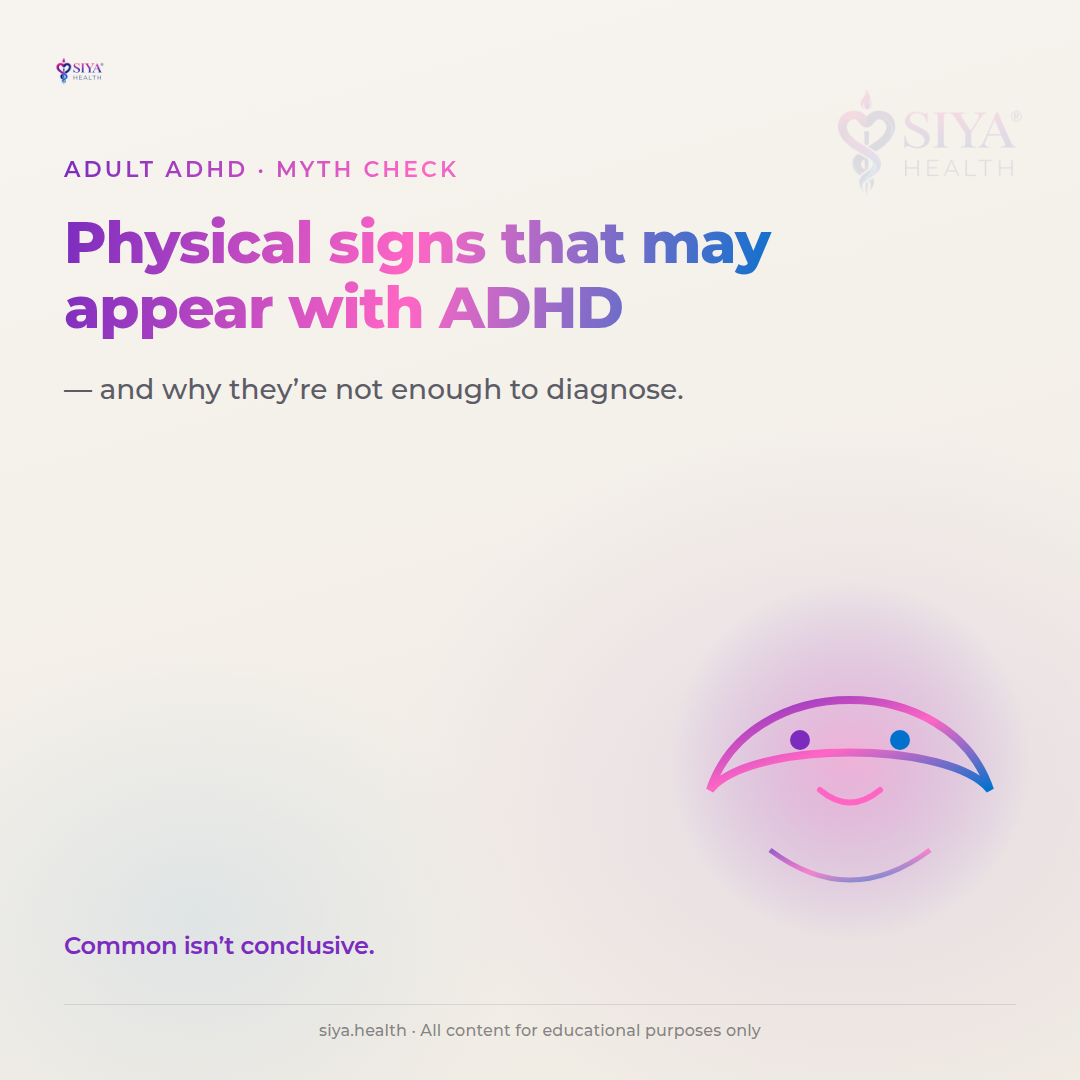
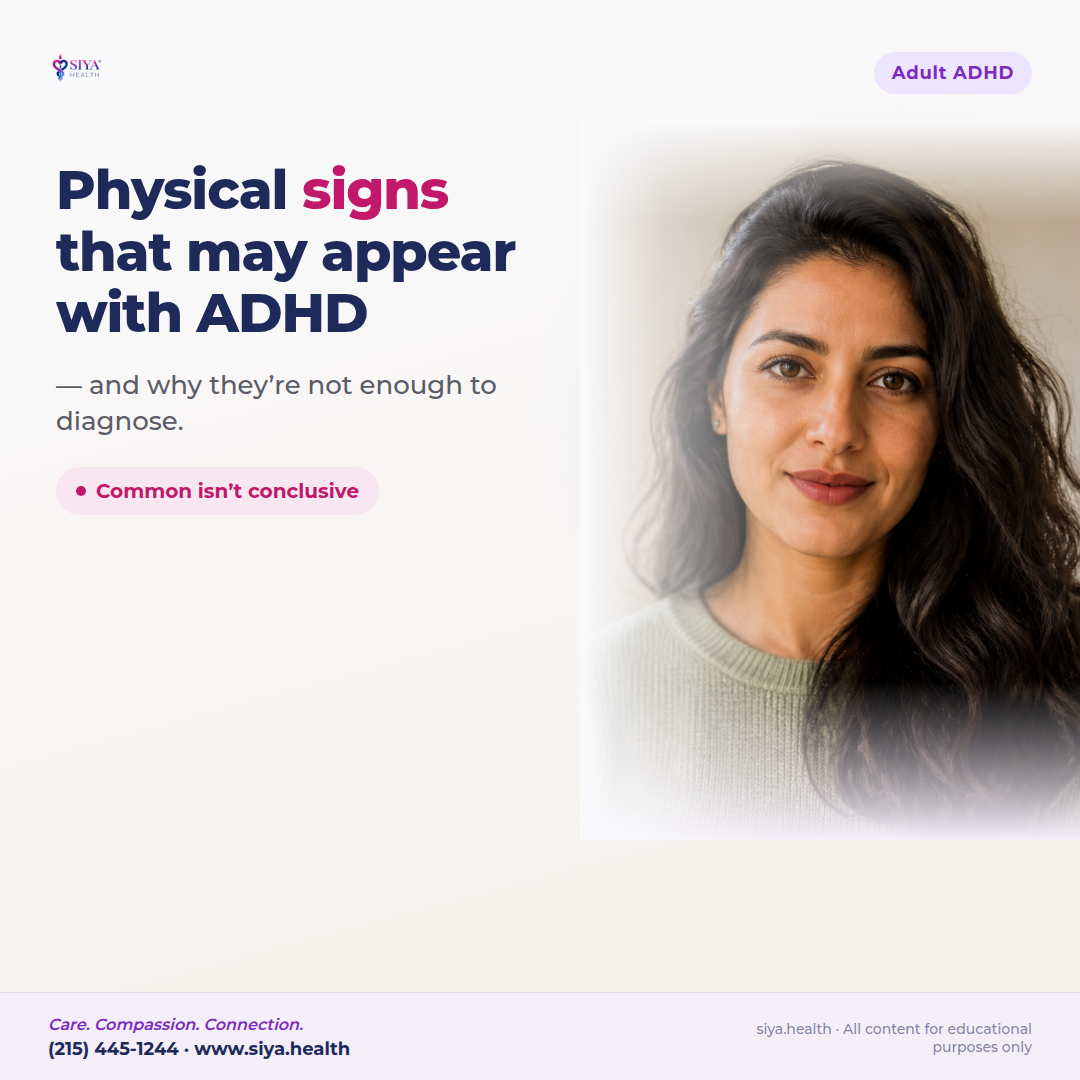
Regen AD-P-01 cover to Template A guidelines
Navy/magenta human-first cover: lifestyle portrait, category pill,
contact footer, no watermark — aligned to SIYA-SOCIAL-POST-STYLE.

diff --git a/apps/siya-health/brand/editorial-packs/AD-P-01/design/slide-01.html b/apps/siya-health/brand/editorial-packs/AD-P-01/design/slide-01.html
@@ -1,36 +1,181 @@
 <!DOCTYPE html>
 <html lang="en"><head>
 <meta charset="utf-8" />
-<title>AD-P-01 slide 01</title>
+<title>AD-P-01 slide 01 — Template A</title>
 <link rel="preconnect" href="https://fonts.googleapis.com" />
 <link rel="preconnect" href="https://fonts.gstatic.com" crossorigin />
 <link href="https://fonts.googleapis.com/css2?family=Montserrat:wght@500;600;700;800&display=swap" rel="stylesheet" />
-<link rel="stylesheet" href="theme.css" />
-</head><body style="margin:0;background:#F7F4EF;">
+<style>
+  :root {
+    --navy: #1E2A5A;
+    --magenta: #C2186B;
+    --plum: #7B2CBF;
+    --lavender: #EDE4FF;
+    --cream: #FAFAFC;
+    --cream2: #F5F1EB;
+    --muted: #5C5C66;
+    --footer-bg: #F3EEF8;
+  }
+  * { box-sizing: border-box; margin: 0; padding: 0; }
+  body { margin: 0; background: #FAFAFC; font-family: "Montserrat", system-ui, sans-serif; }
+  .slide {
+    width: 1080px;
+    height: 1080px;
+    position: relative;
+    overflow: hidden;
+    background:
+      radial-gradient(ellipse 50% 45% at 82% 38%, rgba(205,184,255,0.35), transparent 65%),
+      linear-gradient(165deg, var(--cream) 0%, var(--cream2) 100%);
+    color: var(--navy);
+  }
+  .logo {
+    position: absolute;
+    top: 40px;
+    left: 48px;
+    height: 58px;
+    width: auto;
+    z-index: 6;
+  }
+  .pill {
+    position: absolute;
+    top: 52px;
+    right: 48px;
+    z-index: 6;
+    padding: 10px 18px;
+    border-radius: 999px;
+    background: var(--lavender);
+    color: var(--plum);
+    font-size: 18px;
+    font-weight: 700;
+    letter-spacing: 0.04em;
+  }
+  .content {
+    position: absolute;
+    left: 56px;
+    top: 160px;
+    width: 520px;
+    z-index: 5;
+  }
+  h1 {
+    font-size: 54px;
+    font-weight: 800;
+    line-height: 1.14;
+    letter-spacing: -0.02em;
+    color: var(--navy);
+    margin-bottom: 22px;
+  }
+  h1 .hi { color: var(--magenta); }
+  .support {
+    font-size: 26px;
+    font-weight: 500;
+    line-height: 1.4;
+    color: var(--muted);
+    max-width: 480px;
+    margin-bottom: 28px;
+  }
+  .feeling {
+    display: inline-flex;
+    align-items: center;
+    gap: 10px;
+    padding: 12px 20px;
+    border-radius: 999px;
+    background: #F8E7F0;
+    color: var(--magenta);
+    font-size: 20px;
+    font-weight: 700;
+  }
+  .feeling::before {
+    content: "";
+    width: 10px;
+    height: 10px;
+    border-radius: 50%;
+    background: var(--magenta);
+  }
+  .photo-wrap {
+    position: absolute;
+    right: 0;
+    top: 120px;
+    width: 500px;
+    height: 720px;
+    z-index: 2;
+    overflow: hidden;
+  }
+  .photo-wrap img {
+    width: 100%;
+    height: 100%;
+    object-fit: cover;
+    object-position: center top;
+  }
+  .photo-fade {
+    position: absolute;
+    inset: 0;
+    background:
+      linear-gradient(90deg, var(--cream) 0%, rgba(250,250,252,0.55) 22%, transparent 48%),
+      linear-gradient(180deg, var(--cream) 0%, transparent 14%),
+      linear-gradient(0deg, var(--footer-bg) 0%, transparent 22%);
+    z-index: 3;
+    pointer-events: none;
+  }
+  .footer-bar {
+    position: absolute;
+    left: 0;
+    right: 0;
+    bottom: 0;
+    z-index: 8;
+    background: var(--footer-bg);
+    border-top: 1px solid rgba(30,42,90,0.08);
+    padding: 22px 48px 20px;
+    display: flex;
+    align-items: center;
+    justify-content: space-between;
+    gap: 24px;
+  }
+  .footer-left {
+    display: flex;
+    flex-direction: column;
+    gap: 4px;
+  }
+  .tagline {
+    font-size: 16px;
+    font-weight: 600;
+    font-style: italic;
+    color: var(--plum);
+  }
+  .contact {
+    font-size: 18px;
+    font-weight: 700;
+    color: var(--navy);
+  }
+  .edu {
+    font-size: 14px;
+    font-weight: 500;
+    color: rgba(30,42,90,0.55);
+    text-align: right;
+    max-width: 340px;
+  }
+</style>
+</head><body>
 <section class="slide" id="slide-01">
   <img class="logo" src="siya-health-logo.png" alt="Siya Health" />
-  <img class="watermark" src="siya-health-logo.png" alt="" />
+  <div class="pill">Adult ADHD</div>
+
   <div class="content">
-    <div class="eyebrow">Adult ADHD · Myth check</div>
-    <h1 class="gradient">Physical signs that may appear with ADHD</h1>
+    <h1>Physical <span class="hi">signs</span> that may appear with ADHD</h1>
     <p class="support">— and why they’re not enough to diagnose.</p>
+    <div class="feeling">Common isn’t conclusive</div>
   </div>
-  <p class="tagline">Common isn’t conclusive.</p>
-  <svg class="art" viewBox="0 0 520 520" aria-hidden="true">
-    <defs>
-      <linearGradient id="g1" x1="0" y1="0" x2="1" y2="1">
-        <stop offset="0%" stop-color="#7B2CBF"/><stop offset="50%" stop-color="#FF66C4"/><stop offset="100%" stop-color="#0072CE"/>
-      </linearGradient>
-      <radialGradient id="glow" cx="50%" cy="50%" r="50%">
-        <stop offset="0%" stop-color="#FF66C4" stop-opacity="0.35"/><stop offset="100%" stop-color="#7B2CBF" stop-opacity="0"/>
-      </radialGradient>
-    </defs>
-    <circle cx="260" cy="270" r="180" fill="url(#glow)"/>
-    <path d="M120 300 C160 180, 360 180, 400 300 C360 250, 160 250, 120 300Z" fill="none" stroke="url(#g1)" stroke-width="8" stroke-linecap="round"/>
-    <circle cx="210" cy="250" r="10" fill="#7B2CBF"/><circle cx="310" cy="250" r="10" fill="#0072CE"/>
-    <path d="M230 300 Q260 325 290 300" fill="none" stroke="#FF66C4" stroke-width="6" stroke-linecap="round"/>
-    <path d="M180 360 Q260 420 340 360" fill="none" stroke="url(#g1)" stroke-width="5" opacity="0.7"/>
-  </svg>
-  <div class="footer">siya.health · All content for educational purposes only</div>
+
+  <div class="photo-wrap">
+    <img src="../images/bases/ad-p01-base-portrait.png" alt="" />
+    <div class="photo-fade"></div>
+  </div>
+
+  <div class="footer-bar">
+    <div class="footer-left">
+      <div class="tagline">Care. Compassion. Connection.</div>
+      <div class="contact">(215) 445-1244 · www.siya.health</div>
+    </div>
+    <div class="edu">siya.health · All content for educational purposes only</div>
+  </div>
 </section>
 </body></html>

diff --git a/apps/siya-health/brand/editorial-packs/AD-P-01/carousel.md b/apps/siya-health/brand/editorial-packs/AD-P-01/carousel.md
@@ -2,25 +2,28 @@
 
 **Insight:** Physical signs that may appear with ADHD — and why they're not enough to diagnose  
 **Audience:** Adults 25–50  
-**Theme:** PE-B-01 / locked social graphic system (`SIYA-SOCIAL-POST-STYLE.md` + peptides carousel DNA)  
+**Theme:** Template A awareness/human (`SIYA-SOCIAL-POST-STYLE.md`) — cover aligned; mid slides may still use PE-B graphic DNA until batch-regen  
 **Format:** 1:1 · 1080×1080 · 7 slides  
-**Palette:** `#7B2CBF` · `#FF66C4` · `#0072CE` · cream ground  
-**Type:** Montserrat (modern clinical sans)  
-**Logo:** Top-left wordmark · low-opacity watermark · no opaque plate  
+**Cover palette:** Navy `#1E2A5A` · Magenta `#C2186B` · soft lavender/cream  
+**Type:** Montserrat  
+**Logo:** Top-left only on cover · **no** background watermark  
+**Cover footer:** Care. Compassion. Connection. · `(215) 445-1244` · `www.siya.health`  
 **Practical change:** If these patterns are lifelong and impairing, take a validated screener / talk to a clinician — don't diagnose from fidgeting alone.  
 **CTA (close):** Talk to a Clinician  
 **Voice:** Company only (no founder LinkedIn)  
 **Clinical review:** Required before publish  
-**Render:** `design/render.sh`  
+**Render:** `design/render.sh` (slide 01 = Template A HTML)  
 **Ready:** `images/ready/` · `ready-to-post/`
 
 ---
 
-## Slide 1 — Cover
-**Eyebrow:** Adult ADHD · Myth check  
-**Headline:** Physical signs that may appear with ADHD  
+## Slide 1 — Cover (Template A)
+**Category pill:** Adult ADHD  
+**Headline:** Physical **signs** that may appear with ADHD *(magenta on “signs”)*  
 **Support:** — and why they're not enough to diagnose.  
-**Tagline:** Common isn't conclusive.
+**Feeling badge:** Common isn’t conclusive  
+**Visual:** Lifestyle portrait (right)  
+**Footer bar:** Care. Compassion. Connection. · (215) 445-1244 · www.siya.health · educational note
 
 ---
 

diff --git a/apps/siya-health/brand/editorial-packs/AD-P-01/README.md b/apps/siya-health/brand/editorial-packs/AD-P-01/README.md
@@ -4,8 +4,8 @@ Physical signs that may appear with ADHD — and why they're not enough to diagn
 
 **Practical:** If these patterns are lifelong and impairing, take a validated screener / talk to a clinician — don't diagnose from fidgeting alone.
 
-**Theme (v2):** PE-B-01 locked graphic system — Montserrat · purple/pink/blue gradients · 1080×1080  
-**Not used:** Older cream photo-band / parchment Instagram-static look (AD-S-01 era)
+**Theme (cover v3):** Template A — navy + magenta · human photo · contact footer · no watermark  
+**Not used on cover:** Large logo watermark · full-headline gradient · abstract-only PE-B cover
 
 **Research:** `../../research/2026/physical-signs-adhd-adults/SYNTHESIS.md`  
 **Ready:** `images/ready/` + `ready-to-post/`  
